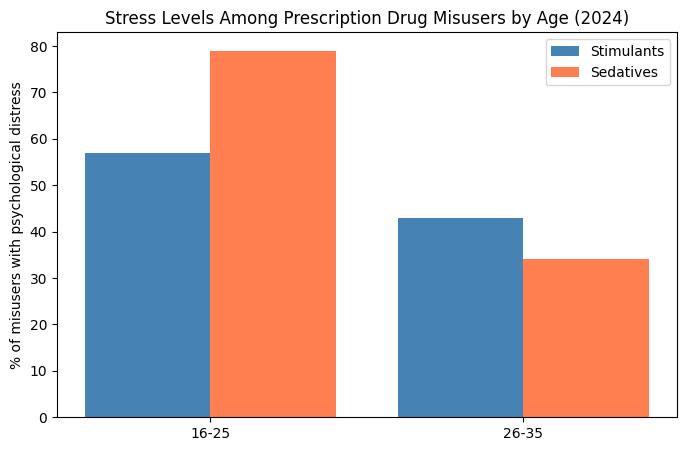
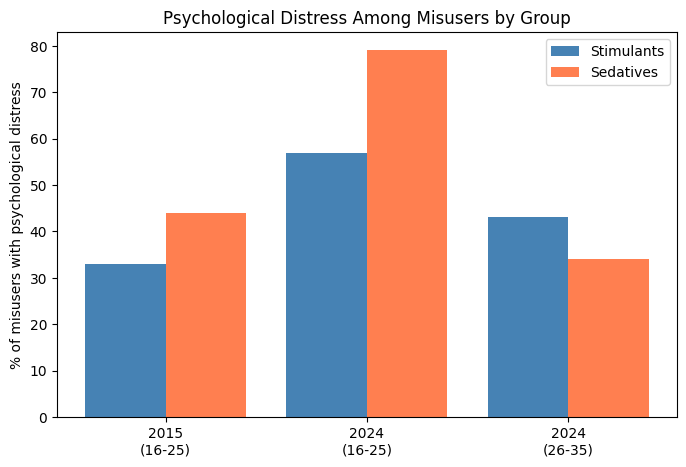
updated visualize and ipynb to match

diff --git a/scripts/visualize.py b/scripts/visualize.py
@@ -116,10 +116,10 @@ def plot_income_breakdown(output_dir):
     save_plot('income_breakdown.png', output_dir)
     
 def plot_distress_age_comparison(output_dir):
-    age_groups = ['16-25', '26-35']
+    age_groups = ['2015\n(16-25)', '2024\n(16-25)', '2024\n(26-35)']
     
-    stim = [57, 43]
-    sed = [79, 34]
+    stim = [33, 57, 43]
+    sed = [44, 79, 34]
     
     x = range(len(age_groups))
     
@@ -131,7 +131,7 @@ def plot_distress_age_comparison(output_dir):
     ax.set_xticks(x)
     ax.set_xticklabels(age_groups)
     ax.set_ylabel('% of misusers with psychological distress')
-    ax.set_title('Stress Levels Among Prescription Drug Misusers by Age (2024)')
+    ax.set_title('Psychological Distress Among Misusers by Group')
     ax.legend()
     save_plot('distress_age_comparison.png', output_dir)
     
